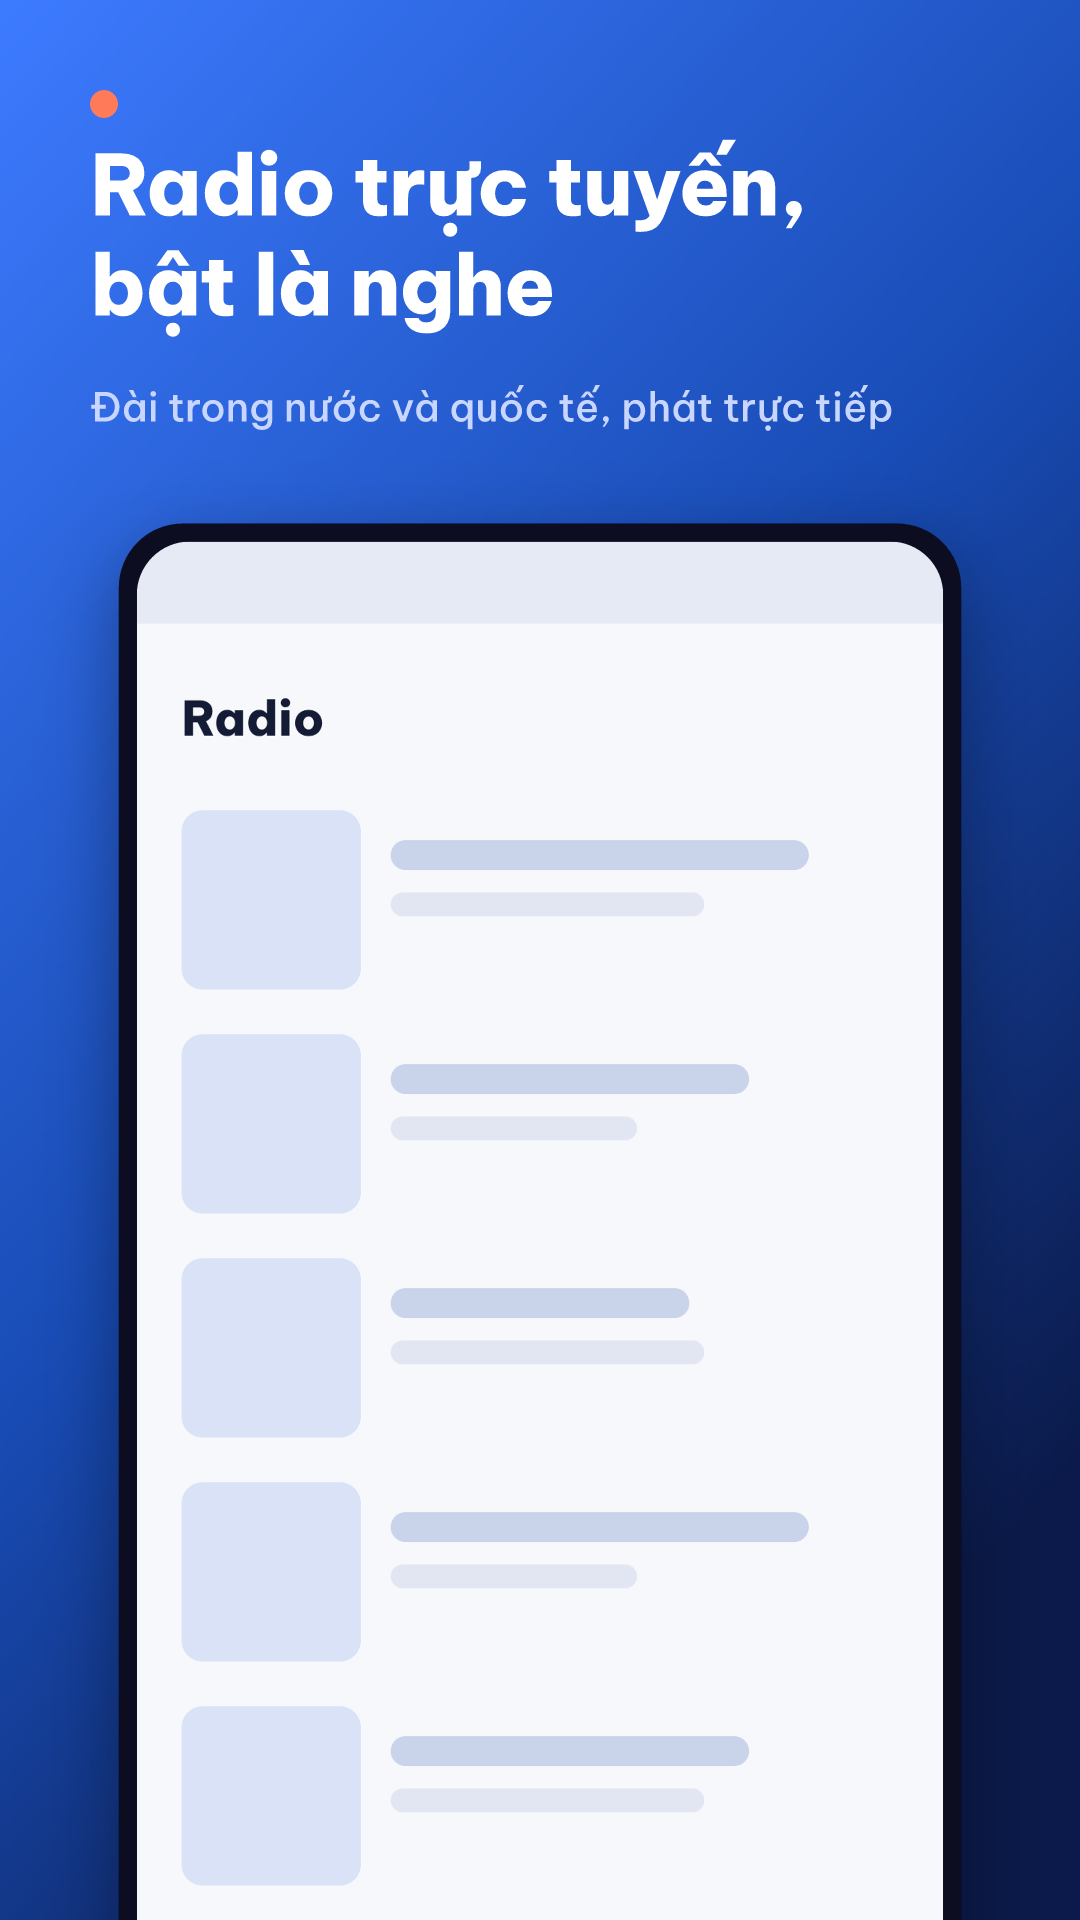
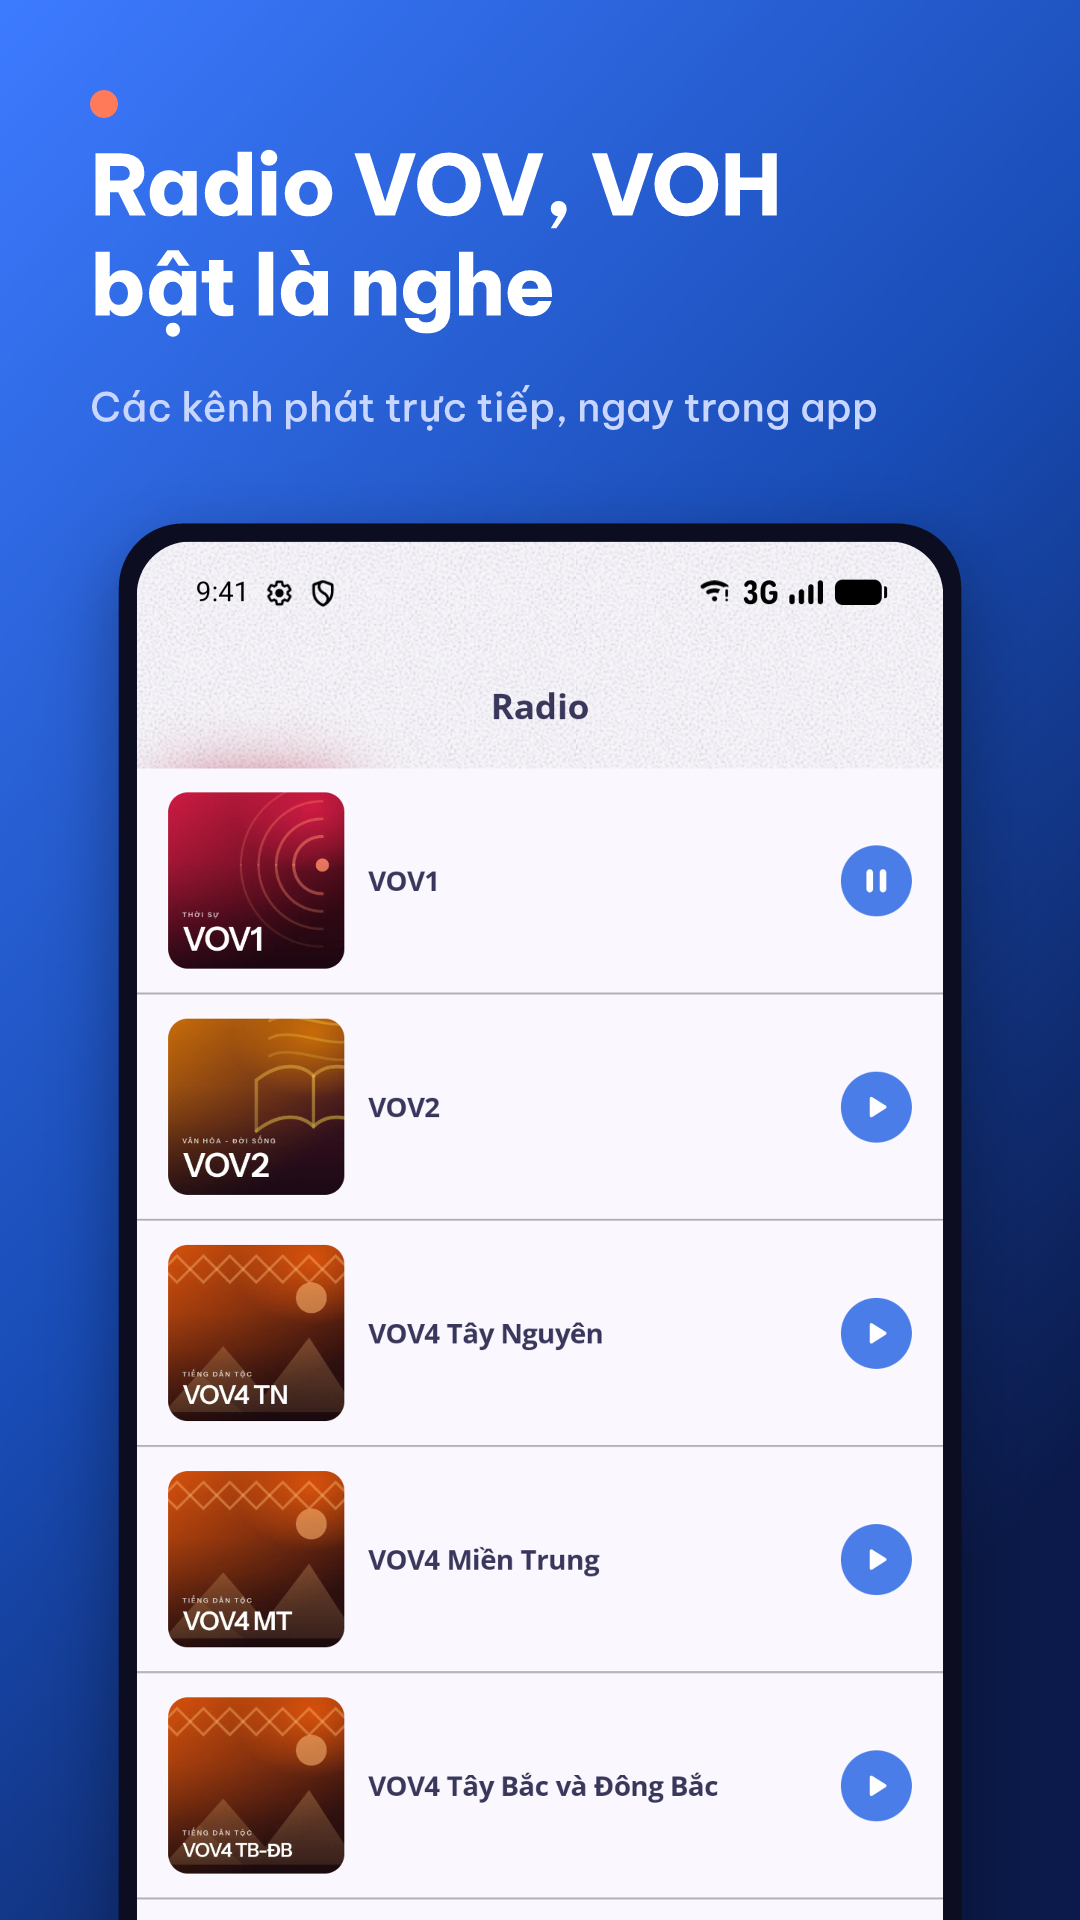
chore(release): v3.4.10017 with Play listing, screenshots and bundle workflow
- Bump release to versionCode 10017 / v3.4.10017.
- fastlane/metadata/android (vi-VN, en-US): title, short and full
  description, icon, feature graphic, six framed phone screenshots from
  the real app, changelog 10017; distribution/whatsnew as a directory.
- Re-frame store screenshots from real captures; headlines match the
  features that exist (VOV/VOH radio, search).
- New "Build signed release bundle" workflow: signed AAB + mapping as an
  artifact, nothing uploaded. release-playstore.yml now runs bundleRelease.
- docs/release/play-release-v3.4.10017.md: build, assets, Play Console
  declarations (ads, Advertising ID, Data safety), rollout.

diff --git a/docs/release/play-release-v3.4.10017.md b/docs/release/play-release-v3.4.10017.md
@@ -1,0 +1,54 @@
+# Phát hành Google Play — v3.4.10017
+
+Bản này gồm: logo/icon/splash mới (#21), sửa màn Player trống (#22), sửa crash thiếu `libsecuredtoken.so` (#19), chuyển sang AdMob Next-Gen + UMP (#24), sửa tab Radio trống (TSP-19).
+
+## 1. Build AAB đã ký
+
+Keystore (`KeyStore` ở gốc repo) và mật khẩu nằm trong GitHub secrets `KEYSTORE_PASSWORD`, `KEY_ALIAS`, `KEY_PASSWORD`.
+
+- GitHub → Actions → **Build signed release bundle** → Run workflow (nhánh `main`).
+- Tải artifact `release-bundle`: `TSPodcast.v3.4.10017_R-release.aab` + `mapping.txt`.
+- Hoặc build máy local: thêm `KEYSTORE_PASSWORD`, `KEY_ALIAS`, `KEY_PASSWORD` vào `local.properties` rồi `./gradlew :app:bundleRelease`.
+
+Workflow **Release to Google Play Console** đẩy thẳng lên track internal (cần secret `PLAY_STORE_SERVICE_ACCOUNT_KEY_BASE64` trong environment).
+
+## 2. Asset cho Store listing
+
+Tất cả nằm trong `fastlane/metadata/android/<vi-VN|en-US>/` (cấu trúc `fastlane supply`, cũng dùng để tải lên tay):
+
+| Mục Play Console | File | Giới hạn |
+|---|---|---|
+| Tên ứng dụng | `title.txt` | ≤ 30 ký tự |
+| Mô tả ngắn | `short_description.txt` | ≤ 80 ký tự |
+| Mô tả đầy đủ | `full_description.txt` | ≤ 4000 ký tự |
+| Biểu tượng | `images/icon.png` | 512×512 PNG |
+| Hình ảnh nổi bật (banner) | `images/featureGraphic.png` | 1024×500 |
+| Ảnh chụp màn hình điện thoại | `images/phoneScreenshots/01–06.png` | 1080×1920, 6 ảnh |
+| Ghi chú phát hành | `changelogs/10017.txt` (và `distribution/whatsnew/`) | ≤ 500 ký tự |
+
+Nguồn để sinh lại: `brand/store/` (icon, feature graphic), `brand/store/screenshots/` (`node brand/scripts/frame.js --batch brand/store/screenshots/examples.json`).
+
+Video demo: `brand/video/out/tspodcast-demo-1080x1920.mp4` (không commit, 107 giây). Play chỉ nhận video qua **link YouTube**: tải video lên YouTube (Unlisted/Public, tắt quảng cáo) rồi dán link vào mục *Video*. Play ưu tiên video ngang; bản dọc vẫn dùng tốt cho YouTube Shorts / mạng xã hội.
+
+## 3. Việc bắt buộc trong Play Console trước khi gửi duyệt
+
+1. **Nội dung ứng dụng → Quảng cáo:** "Có, ứng dụng có quảng cáo".
+2. **Advertising ID:** khai báo có dùng (AdMob), mục đích *Quảng cáo hoặc tiếp thị* và *Phân tích*.
+3. **Data safety:** bỏ Meta (Facebook SDK) và AppLovin; thêm Google AdMob: Device or other IDs (Advertising ID), App interactions, Diagnostics, Approximate location (từ IP) — thu thập, chia sẻ cho quảng cáo; mã hoá khi truyền; người dùng không yêu cầu xoá được qua app (không có tài khoản). Giữ Firebase Analytics/Crashlytics như cũ.
+4. **Chính sách quyền riêng tư:** URL phải nhắc tới AdMob và đối tác quảng cáo của Google, cách rút lại đồng ý (link "Tuỳ chọn quyền riêng tư" ở cuối màn Khám phá, chỉ hiện khi luật yêu cầu).
+5. **Phân loại nội dung:** trả lời lại bảng câu hỏi nếu Play yêu cầu (nội dung bên thứ ba, có quảng cáo).
+6. **Target audience:** không nhắm trẻ em (tránh chính sách Families với quảng cáo).
+
+## 4. Quảng cáo trong bản release này
+
+- Bản release **chưa có ID AdMob thật** → build dùng ID test của Google, và quảng cáo **tắt** cho tới khi Remote Config `ads_enabled=true`. Bản này lên store sẽ không hiện quảng cáo.
+- Khi có ID thật: tạo secrets `ADMOB_APP_ID`, `ADMOB_UNIT_APP_OPEN`, `ADMOB_UNIT_BANNER`, `ADMOB_UNIT_NATIVE` (tuỳ chọn `ADMOB_UNIT_INTERSTITIAL`, `ADMOB_UNIT_REWARDED`) trong GitHub → build lại → rồi mới bật `ads_enabled` trên Remote Config.
+- Đã kiểm tra trên emulator (bản debug, ID test): form UMP hiện (EEA debug), banner adaptive + native hiển thị, native validator "No implementation issues found", App Open **không** hiện khi đang phát, hiện sau khi tạm dừng + ra nền ≥ 30 giây.
+
+## 5. Kiểm thử đã làm (emulator Pixel 7, Android 17)
+
+Onboarding → chọn chủ đề → Khám phá (thịnh hành, Kho nhạc) → chi tiết podcast → phát tập → Player → yêu thích → Radio (VOV + VOH, phát VOV1) → Yêu thích → Tìm kiếm "kinh doanh". Không crash. Splash mới hiển thị.
+
+## 6. Rollout đề xuất
+
+Internal testing → Closed testing (nếu cần) → Production **staged rollout 20%**, theo dõi Crashlytics 48 giờ (đặc biệt non-fatal `App.missingNativeLib`, `RadioRepository`, `GetRadioList`) rồi tăng 50% → 100%.
